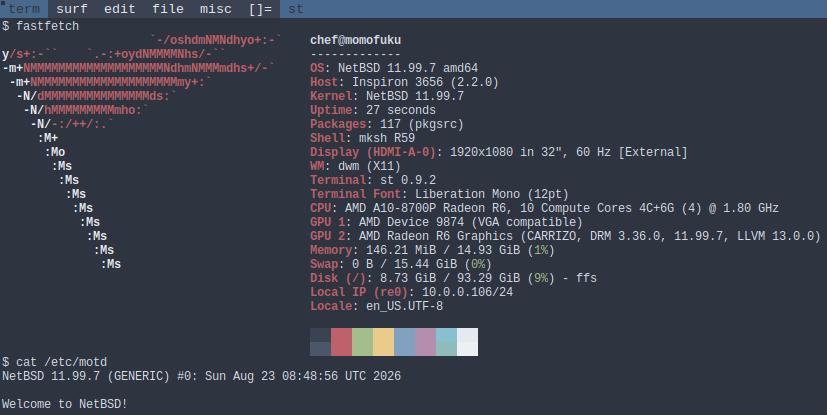
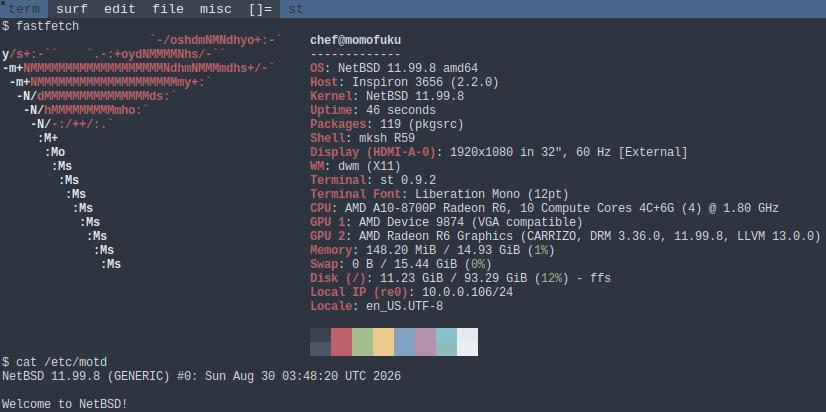
adds and tweaks

diff --git a/README.md b/README.md
@@ -1,4 +1,4 @@
-NetBSD 11.99.7  (GENERIC)
+NetBSD 11.99.8  (GENERIC)
 
 
 
